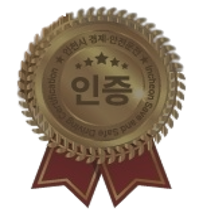
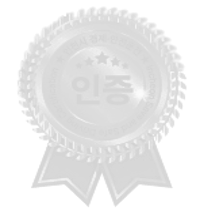
인증스탬프 변경

diff --git a/app.py b/app.py
@@ -208,11 +208,21 @@ if st.button("조회하기") and company_input and user_id_input and user_name_i
         if is_cert_24:
             medal_24 = (
                 "<div style='width: 180px; height: 180px; text-align: center; border: 2px solid #888; border-radius: 10px; padding: 10px; margin-bottom: 30px;'>"
-                "<div style='font-size: 15px; font-weight: bold;'>🏅24년 우수인증자🏅</div>"
+                "<div style='font-size: 15px; font-weight: bold;'>24년 전체</div>"
                 f"<img src='{medal_url}' width='100'>"
+                f"<div style='font-weight:bold; font-size: 15px; background: linear-gradient(to right, #FFD700, #FFA500); -webkit-background-clip: text; -webkit-text-fill-color: transparent;display: inline-block;'>🏅 우수운전자 🏅</div>"
                 "</div>"
             )
-            st.markdown(medal_24, unsafe_allow_html=True)
+        else:
+            medal_24 = (
+                "<div style='width: 180px; height: 180px; text-align: center; border: 2px solid #888; border-radius: 10px; padding: 10px; margin-bottom: 30px;'>"
+                "<div style='font-size: 15px; font-weight: bold;'>24년 전체</div>"
+                f"<img src='{medal_black_url}' width='100'>"
+                f"<div style='font-weight:bold; font-size: 13px; display: inline-block;'>다음 기회를 도전해보세요!</div>"
+                "</div>"
+
+            )
+        st.markdown(medal_24, unsafe_allow_html=True)
 
         cert_grid = "<div style='display: flex; flex-wrap: wrap; gap: 20px; align-items: flex-start;'>"
 
@@ -235,7 +245,7 @@ if st.button("조회하기") and company_input and user_id_input and user_name_i
                 if avg_score >= 0.95:
                     medal = (
                         f"<img src='{medal_url}' width='100'>"
-                        f"<div style='font-weight:bold; font-size: 13px; background: linear-gradient(to right, #FFD700, #FFA500); -webkit-background-clip: text; -webkit-text-fill-color: transparent;display: inline-block;'>✨ 우수운전자 ✨</div>"
+                        f"<div style='font-weight:bold; font-size: 15px; background: linear-gradient(to right, #FFD700, #FFA500); -webkit-background-clip: text; -webkit-text-fill-color: transparent;display: inline-block;'>✨ 우수운전자 ✨</div>"
                     )
                 else:
                     medal = (
@@ -500,7 +510,7 @@ if st.button("조회하기") and company_input and user_id_input and user_name_i
 
         st.markdown("---")
 
-        # 7.차량별요약      
+        # 6.차량별요약      
         st.subheader("🚘 차량별 요약")
         df_vehicle_filtered = df_vehicle[
             (df_vehicle['운수사'] == company_input) &
@@ -550,8 +560,8 @@ if st.button("조회하기") and company_input and user_id_input and user_name_i
             st.write(df_vehicle_display.to_html(escape=False, index=False), unsafe_allow_html=True)
 
         st.markdown("---")
-        # 6. 개인 맞춤 피드백
 
+        # 7. 개인 맞춤 피드백
         st.subheader("🗣 개인 맞춤 피드백")
 
         #급감속 멘트
